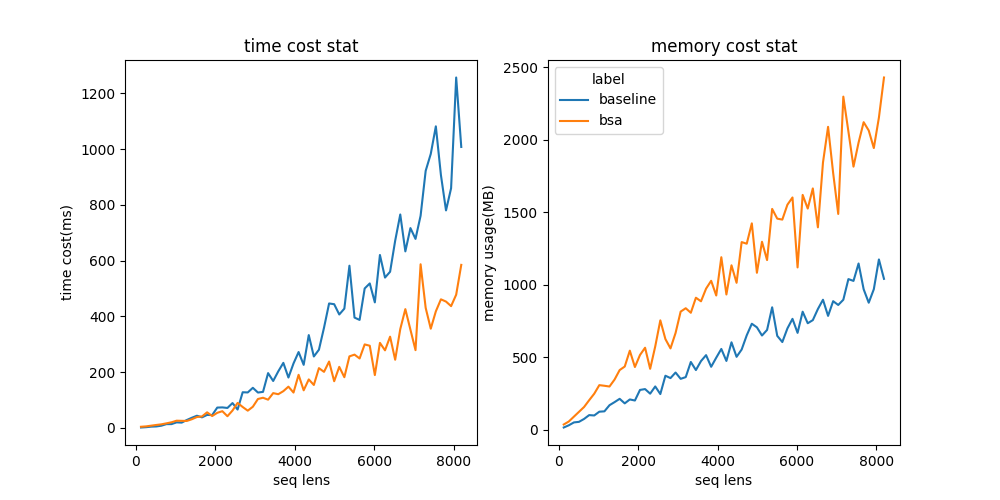
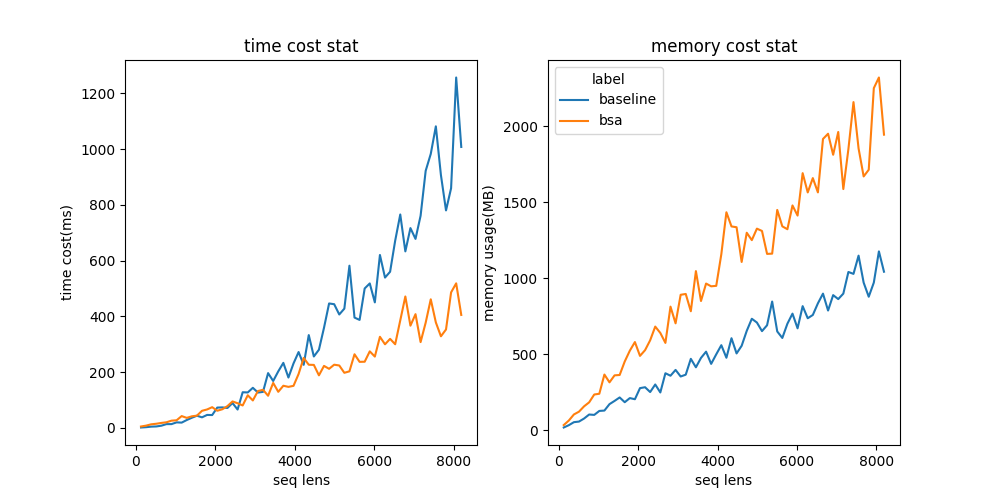
dev

diff --git a/paper/draw_speed_exp.py b/paper/draw_speed_exp.py
@@ -3,6 +3,7 @@ import matplotlib.pyplot as plt
 
 data_baseline = f'record/speed_exp_baseline.log'
 data_bsa = f'record/speed_exp_bsa.log'
+data_bsa_64 = f'record/speed_exp_bsa_64.log'
 
 def read_data(path):
     ret = {
@@ -24,11 +25,13 @@ def read_data(path):
 
 data_baseline = read_data(data_baseline)
 data_bsa = read_data(data_bsa)
+data_bsa_64 = read_data(data_bsa_64)
 
 figure, axs = plt.subplots(figsize = (10, 5), nrows=1, ncols=2)
 
 axs[0].plot(data_baseline['seq_len'], data_baseline['Time'], label='baseline')
-axs[0].plot(data_bsa['seq_len'], data_bsa['Time'], label='bsa')
+# axs[0].plot(data_bsa['seq_len'], data_bsa['Time'], label='bsa_32')
+axs[0].plot(data_bsa_64['seq_len'], data_bsa_64['Time'], label='bsa')
 
 axs[0].set_xlabel('seq lens')
 axs[0].set_ylabel('time cost(ms)')
@@ -36,11 +39,15 @@ axs[0].set_title('time cost stat')
 
 
 axs[1].plot(data_baseline['seq_len'], data_baseline['mem'], label='baseline')
-axs[1].plot(data_bsa['seq_len'], data_bsa['mem'], label='bsa')
+# axs[1].plot(data_bsa['seq_len'], data_bsa['mem'], label='bsa_32')
+axs[1].plot(data_bsa_64['seq_len'], data_bsa_64['mem'], label='bsa')
 
 axs[1].set_xlabel('seq lens')
 axs[1].set_ylabel('memory usage(MB)')
 axs[1].set_title('memory cost stat')
+
+
+
 
 plt.legend(title = 'label')
 plt.savefig('output/speed_exp.png')
